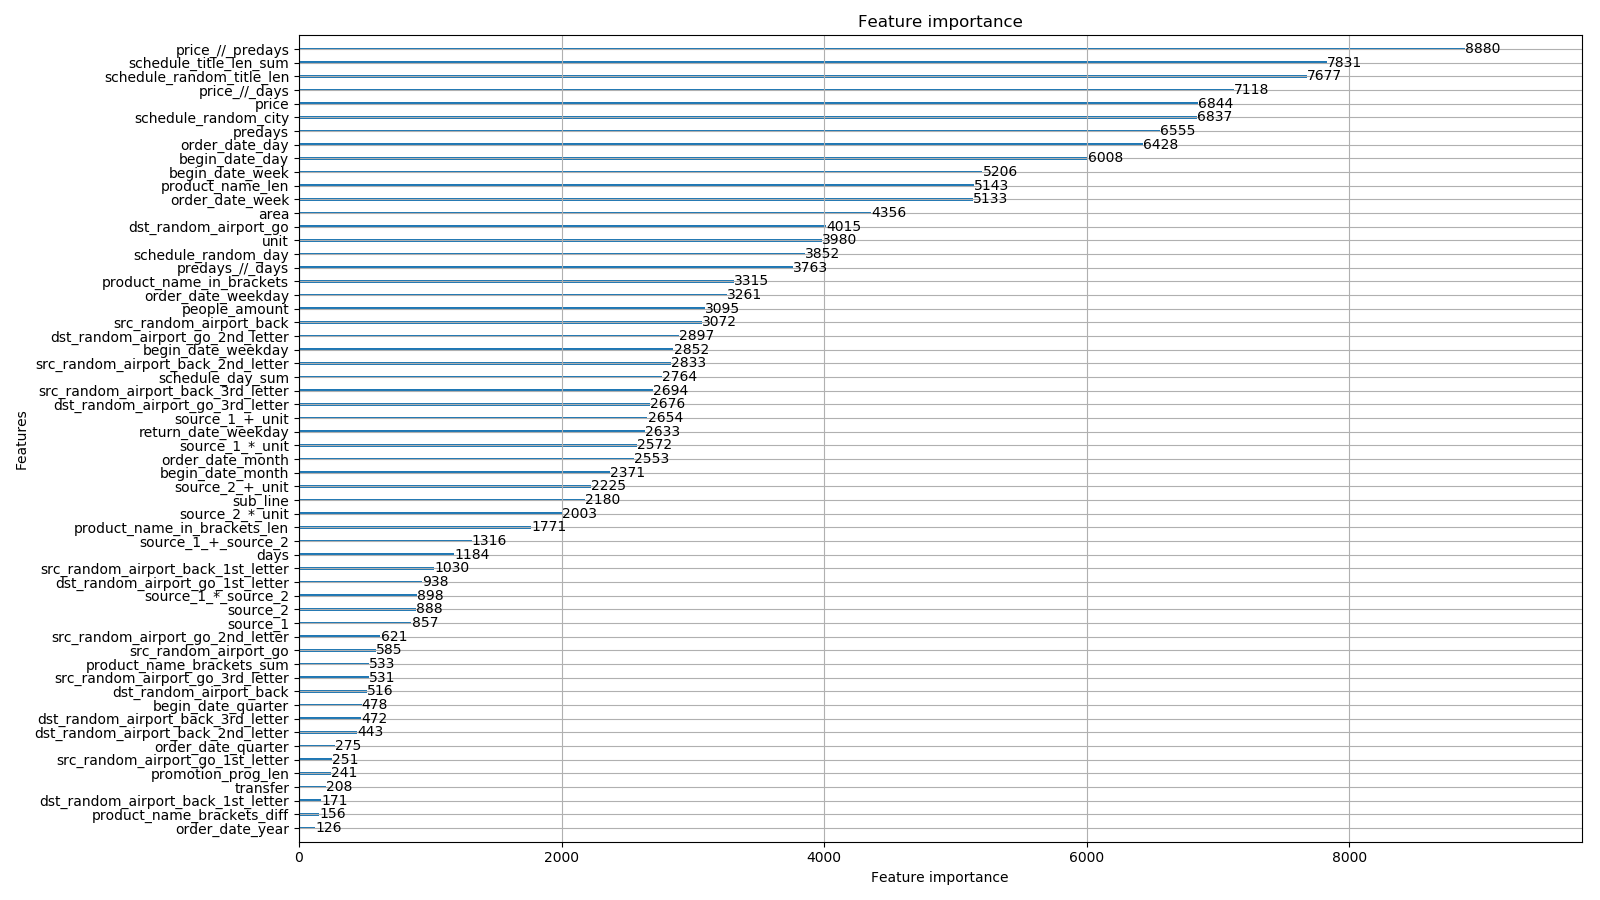
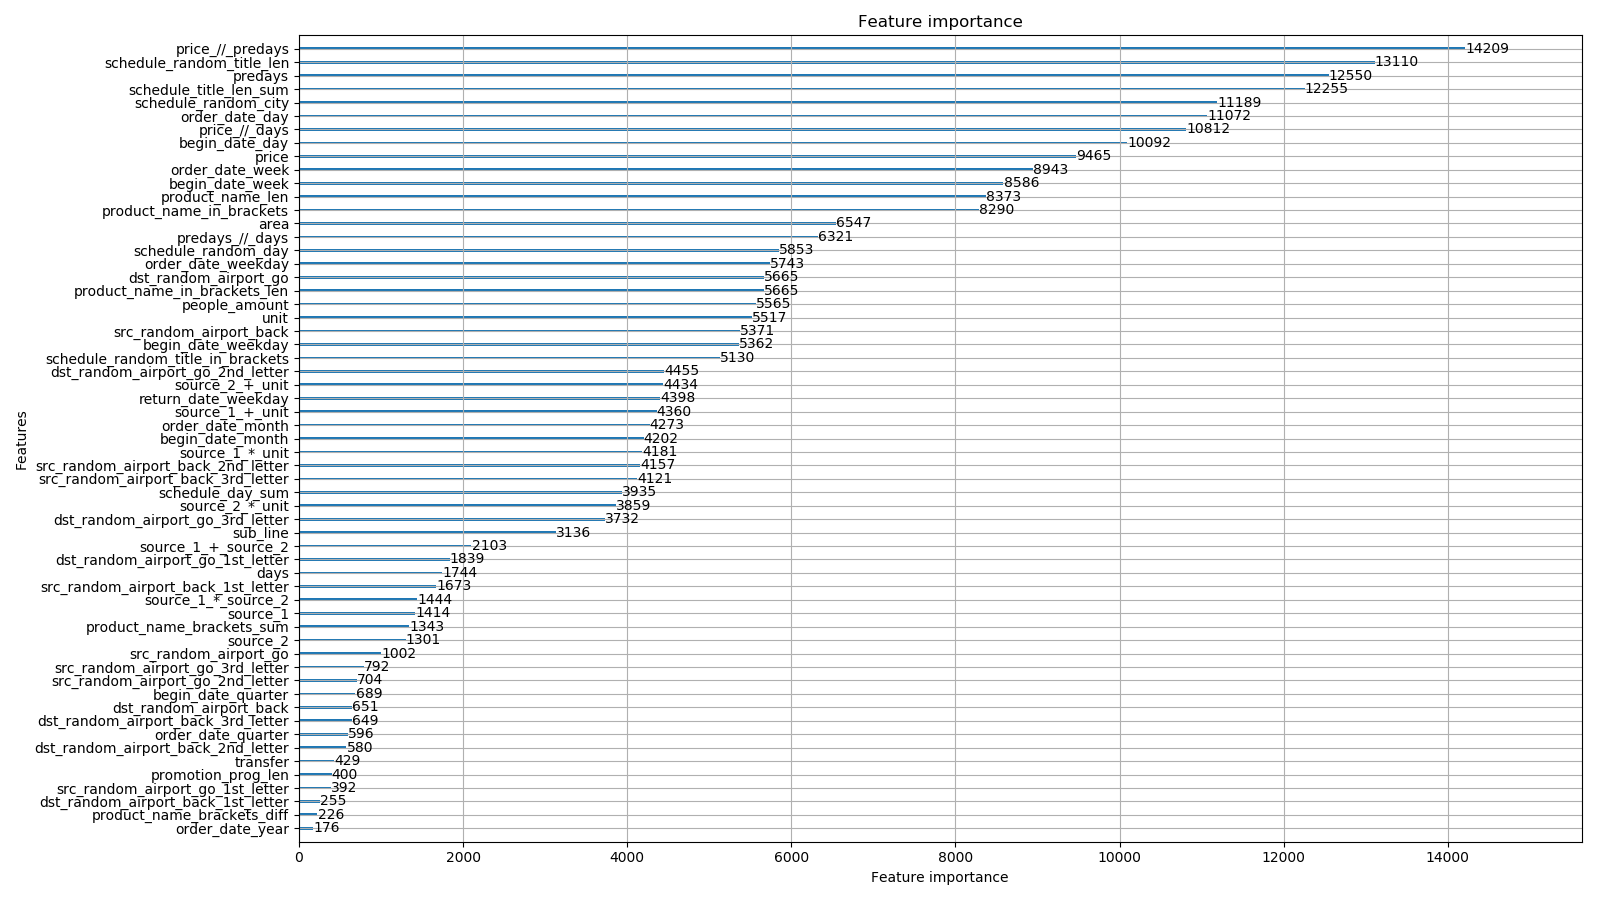
no message

diff --git a/Travel order forecast/data_preprocessing.py b/Travel order forecast/data_preprocessing.py
@@ -22,7 +22,7 @@ def Convert_Date(x):
 df_group['begin_date'] = df_group['begin_date'].apply(lambda x: Convert_Date(x))
 df_group['sub_line'] = df_group['sub_line'].apply(lambda x: int(x[14:]))
 df_group['area'] = df_group['area'].apply(lambda x: int(x[11:]))
-df_group['product_name_in_brackets'] = df_group['product_name'].str.extract('《?(.+?)》', expand=True).fillna('')
+df_group['product_name_in_brackets'] = df_group['product_name'].str.extract('[《【]?(.+?)[》】]', expand=True).fillna('')
 df_group['product_name_in_brackets_len'] = df_group['product_name_in_brackets'].apply(lambda x: len(str(x)))
 left_bracket_count = df_group['product_name'].str.count('《')
 right_bracket_count = df_group['product_name'].str.count('》')
@@ -32,15 +32,18 @@ df_group['product_name_len'] = df_group['product_name'].apply(lambda x: len(str(
 df_group['promotion_prog_len'] = df_group['promotion_prog'].apply(lambda x: len(str(x)))
 
 df_day_schedule['schedule_title_len'] = df_day_schedule['title'].apply(lambda x: len(str(x)))
+df_day_schedule['schedule_title_in_brackets'] = df_day_schedule['title'].str.extract('【(.+?)】', expand=True).fillna('')
 
 df_day_schedule_random = df_day_schedule.groupby('group_id').agg(np.random.choice).reset_index()
 df_day_schedule_random['schedule_title_len'] = df_day_schedule_random['title'].apply(lambda x: len(str(x)))
 df_day_schedule_random['schedule_city'] = df_day_schedule_random['title'].apply(lambda x: str(x)[:2])
 df_day_schedule_random = df_day_schedule_random.rename(
     columns={'day': 'schedule_random_day', 'schedule_title_len': 'schedule_random_title_len',
+             'schedule_title_in_brackets': 'schedule_random_title_in_brackets',
              'schedule_city': 'schedule_random_city'})
 df_group = pd.merge(df_group, df_day_schedule_random[
-    ['group_id', 'schedule_random_day', 'schedule_random_title_len', 'schedule_random_city']], 'left')
+    ['group_id', 'schedule_random_day', 'schedule_random_title_len', 'schedule_random_title_in_brackets',
+     'schedule_random_city']], 'left')
 
 df_day_schedule_sum = df_day_schedule.groupby('group_id').sum().reset_index()
 df_day_schedule_sum = df_day_schedule_sum.rename(
@@ -68,7 +71,6 @@ df_group['src_random_airport_back_2nd_letter'] = df_group['src_random_airport_ba
 df_group['dst_random_airport_back_2nd_letter'] = df_group['dst_random_airport_back'].apply(lambda x: str(x)[1])
 df_group['src_random_airport_back_3rd_letter'] = df_group['src_random_airport_back'].apply(lambda x: str(x)[2])
 df_group['dst_random_airport_back_3rd_letter'] = df_group['dst_random_airport_back'].apply(lambda x: str(x)[2])
-print(df_group['dst_random_airport_back_3rd_letter'])
 
 df_airline_transfer = df_airline.groupby('group_id').size().reset_index().rename(columns={0: 'transfer'}).fillna(2)
 df_group = pd.merge(df_group, df_airline_transfer, 'left')

diff --git a/Travel order forecast/lightgbm_classifier.py b/Travel order forecast/lightgbm_classifier.py
@@ -11,13 +11,24 @@ df_order = pd.read_csv('df_order.csv', dtype={'order_id': str, 'group_id': str})
 df_test = pd.read_csv('testing-set.csv', dtype={'order_id': str})
 df_train = pd.read_csv('training-set.csv', dtype={'order_id': str})
 
-for feature in ['product_name_in_brackets', 'schedule_random_city', 'src_random_airport_go',
-                'src_random_airport_go_1st_letter', 'dst_random_airport_go_1st_letter',
-                'src_random_airport_go_2nd_letter', 'dst_random_airport_go_2nd_letter',
-                'src_random_airport_go_3rd_letter', 'dst_random_airport_go_3rd_letter', 'dst_random_airport_go',
-                'src_random_airport_back', 'dst_random_airport_back', 'src_random_airport_back_1st_letter',
-                'dst_random_airport_back_1st_letter', 'src_random_airport_back_2nd_letter',
-                'dst_random_airport_back_2nd_letter', 'src_random_airport_back_3rd_letter',
+for feature in ['product_name_in_brackets',
+                'schedule_random_title_in_brackets',
+                'schedule_random_city',
+                'src_random_airport_go',
+                'src_random_airport_go_1st_letter',
+                'dst_random_airport_go_1st_letter',
+                'src_random_airport_go_2nd_letter',
+                'dst_random_airport_go_2nd_letter',
+                'src_random_airport_go_3rd_letter',
+                'dst_random_airport_go_3rd_letter',
+                'dst_random_airport_go',
+                'src_random_airport_back',
+                'dst_random_airport_back',
+                'src_random_airport_back_1st_letter',
+                'dst_random_airport_back_1st_letter',
+                'src_random_airport_back_2nd_letter',
+                'dst_random_airport_back_2nd_letter',
+                'src_random_airport_back_3rd_letter',
                 'dst_random_airport_back_3rd_letter']:
     le = LabelEncoder()
     le.fit(df_order[feature].astype(str))
@@ -39,6 +50,7 @@ features = ['source_1',
             'promotion_prog_len',
             'schedule_random_day',
             'schedule_random_title_len',
+            'schedule_random_title_in_brackets',
             'schedule_random_city',
             'schedule_day_sum',
             'schedule_title_len_sum',
